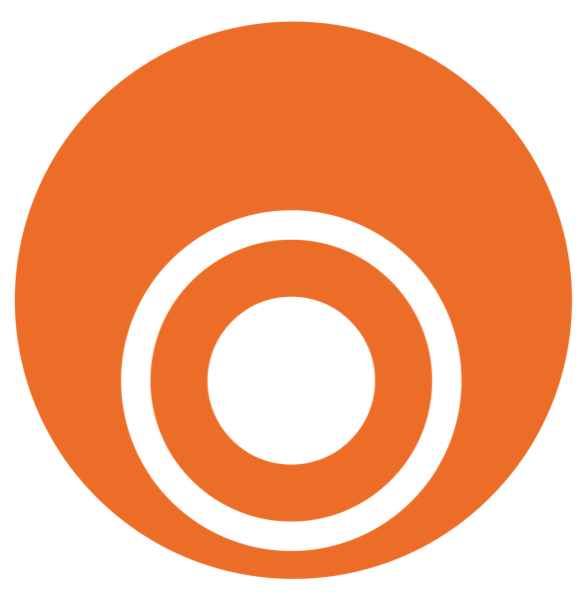
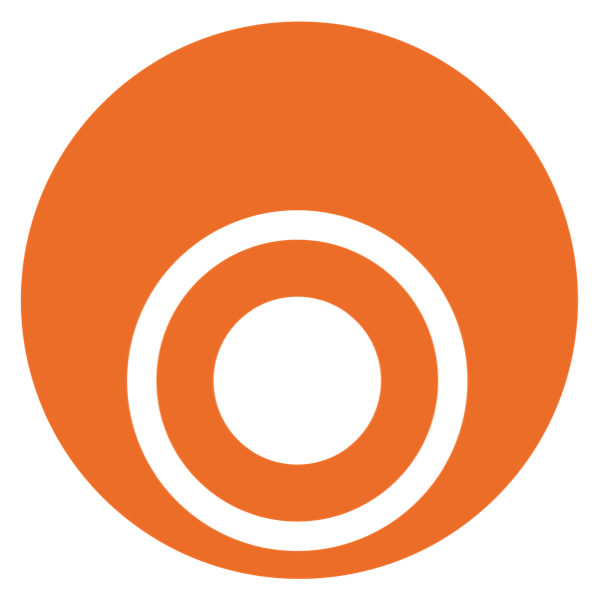
v6: símbolos de Médula y Lumina en lienzo cuadrado y sin deformarse

diff --git a/v6.html b/v6.html
@@ -12,7 +12,7 @@
 <link rel="preload" href="recursos/fuentes/geist.woff2" as="font" type="font/woff2" crossorigin>
 <link rel="stylesheet" href="estilos.css">
 <link rel="stylesheet" href="v4.css">
-<link rel="stylesheet" href="v6.css?v=1793368642">
+<link rel="stylesheet" href="v6.css?v=1793368802">
 </head>
 <body class="v6">
 
@@ -38,7 +38,7 @@
     <symbol id="i-cuerpo" viewBox="0 0 24 24" fill="none" stroke="currentColor" stroke-width="1.6" stroke-linejoin="round"><circle cx="12" cy="4.8" r="2"/><path d="M8 21l2-6.5-3-2.5 2.5-4h5l2.5 4-3 2.5 2 6.5"/></symbol>
     <symbol id="iso" viewBox="0 0 80 80"><defs><linearGradient id="g-iso" x1="0" x2="1"><stop offset="0" stop-color="#91CEC4"/><stop offset="1" stop-color="#387E80"/></linearGradient><mask id="m-iso"><rect width="80" height="80" fill="#fff"/><circle cx="44" cy="46" r="7" fill="#000"/><circle cx="26.6" cy="28.6" r="10" fill="#000"/></mask></defs><circle cx="44" cy="46" r="27" fill="url(#g-iso)" mask="url(#m-iso)"/><circle cx="19.5" cy="21.5" r="8" fill="url(#g-iso)"/></symbol>
     <!-- Lumina (provisorio): un lente con el punto de luz que se escapa, primo del punto de Optimizo -->
-    <symbol id="lumina" viewBox="0 0 48 48"><image href="recursos/marca/lumina-simbolo.png" width="48" height="48" preserveAspectRatio="xMidYMid meet"/></symbol>
+    <symbol id="lumina" viewBox="0 0 48 48"><image href="recursos/marca/lumina-simbolo.png?v=1793368802" width="48" height="48" preserveAspectRatio="xMidYMid meet"/></symbol>
   </defs>
 </svg>
 
@@ -180,12 +180,12 @@
         </div>
         <div class="banda banda--arriba">
           <span class="banda__c"><em>02.</em></span>
-          <span class="banda__c"><img src="recursos/marca/medula-simbolo.png" alt=""><img class="palabra palabra--medula" src="recursos/marca/medula-palabra.png" alt="Médula"></span>
+          <span class="banda__c"><img src="recursos/marca/medula-simbolo.png?v=1793368802" alt=""><img class="palabra palabra--medula" src="recursos/marca/medula-palabra.png" alt="Médula"></span>
           <span class="banda__c"><em>Conecta · Entiende · Actúa</em></span>
           <span class="banda__c banda__ir"><span>Entrar a Médula <svg><use href="#i-flecha"/></svg></span></span>
         </div>
         <div class="banda banda--abajo">
-          <span class="banda__c banda__c--isla"><span class="isla" aria-live="polite"><span class="isla__sim"><img src="recursos/marca/medula-simbolo-blanco.png" alt=""><i></i></span><span class="isla__txt">Médula</span><span class="isla__app"></span><i class="isla__barra"></i></span></span>
+          <span class="banda__c banda__c--isla"><span class="isla" aria-live="polite"><span class="isla__sim"><img src="recursos/marca/medula-simbolo-blanco.png?v=1793368802" alt=""><i></i></span><span class="isla__txt">Médula</span><span class="isla__app"></span><i class="isla__barra"></i></span></span>
           <span class="banda__c banda__c--ancho"><h3>El sistema nervioso de tu empresa.</h3><p>Conecta tus sistemas para que personas y agentes trabajen con el mismo contexto.</p></span>
         </div>
       </button>
@@ -269,13 +269,13 @@
       <div class="med__escenario">
         <canvas data-aura="escenario" aria-hidden="true"></canvas>
         <div class="med__in">
-          <div class="med__simbolo" data-r><img src="recursos/marca/medula-simbolo-blanco.png" alt=""></div>
+          <div class="med__simbolo" data-r><img src="recursos/marca/medula-simbolo-blanco.png?v=1793368802" alt=""></div>
           <div class="med__texto">
-            <span class="marca-m" data-r><img src="recursos/marca/medula-simbolo.png" alt=""><img class="palabra palabra--medula" src="recursos/marca/medula-palabra.png" alt="Médula"><span>de Optimizo</span></span>
+            <span class="marca-m" data-r><img src="recursos/marca/medula-simbolo.png?v=1793368802" alt=""><img class="palabra palabra--medula" src="recursos/marca/medula-palabra.png" alt="Médula"><span>de Optimizo</span></span>
             <h2 class="t-heroe arma" id="h-medula">El sistema nervioso de tu empresa.</h2>
             <p class="bajada" data-r>Médula conecta lo que hoy trabaja separado: tus aplicaciones, sistemas e información, en un solo ecosistema donde personas y agentes de IA trabajan con el mismo contexto.</p>
             <div class="med__acc" data-r>
-              <span class="isla" aria-live="polite"><span class="isla__sim"><img src="recursos/marca/medula-simbolo-blanco.png" alt=""><i></i></span><span class="isla__txt">Médula</span><span class="isla__app"></span><i class="isla__barra"></i></span>
+              <span class="isla" aria-live="polite"><span class="isla__sim"><img src="recursos/marca/medula-simbolo-blanco.png?v=1793368802" alt=""><i></i></span><span class="isla__txt">Médula</span><span class="isla__app"></span><i class="isla__barra"></i></span>
             </div>
           </div>
         </div>
@@ -300,9 +300,9 @@
             <p data-r>Médula busca en cada sistema, cita sus fuentes y, cuando lo apruebas, ejecuta.</p>
           </div>
           <div class="chat" id="chat" aria-live="polite">
-            <div class="chat__cab"><img src="recursos/marca/medula-simbolo.png" alt="">Médula<span>Quillay · contexto compartido</span></div>
+            <div class="chat__cab"><img src="recursos/marca/medula-simbolo.png?v=1793368802" alt="">Médula<span>Quillay · contexto compartido</span></div>
             <div class="msj chat__yo">¿Qué cotizaciones de Quillay siguen abiertas?</div>
-            <div class="msj chat__lite"><span class="lite__sim"><img src="recursos/marca/medula-simbolo-blanco.png" alt=""></span><span class="lite__txt">Revisando Bsale, Gmail y Zoho…</span></div>
+            <div class="msj chat__lite"><span class="lite__sim"><img src="recursos/marca/medula-simbolo-blanco.png?v=1793368802" alt=""></span><span class="lite__txt">Revisando Bsale, Gmail y Zoho…</span></div>
             <div class="msj chat__resp">Tres, por <b>$18,4 M</b>. La más antigua lleva <b>12 días</b> sin respuesta. ¿Le escribo a Camila para hacer seguimiento?
               <div class="cita"><span><img src="recursos/logos/bsale.png" alt="">Bsale</span><span><img src="recursos/logos/gmail.svg" alt="">Gmail</span><span><img src="recursos/logos/zoho.svg" alt="">Zoho CRM</span></div>
               <div class="chat__botones"><span class="si">Sí, escríbele</span><span>Ahora no</span></div></div>
@@ -333,7 +333,7 @@
           <button class="ar9__cab" aria-expanded="false">
             <span class="ar9__media"><video muted loop playsinline preload="none" poster="recursos/video/areas/operaciones.jpg" aria-hidden="true"><source src="recursos/video/areas/operaciones.mp4" type="video/mp4"></video><span class="ar9__velo"></span><span class="ar9__mas" aria-hidden="true"></span><span class="ar9__fila"><span class="ar9__ico"><svg viewBox="0 0 24 24" fill="none" stroke="currentColor" stroke-width="1.6" stroke-linecap="round" stroke-linejoin="round"><path d="M4 7h9M17 7h3M4 17h3M11 17h9"/><circle cx="15" cy="7" r="2.2"/><circle cx="9" cy="17" r="2.2"/></svg></span><span class="ar9__nom">Operaciones</span></span></span>
           </button>
-          <div class="ar9__det"><div><p>Procesos que se coordinan solos y alertas cuando algo se desvía.</p><div class="ar9__tags"><a href="#camino" data-ir="medula" class="tag-marca"><img src="recursos/marca/medula-simbolo.png" alt="">Médula</a><span>Automatización</span></div></div></div>
+          <div class="ar9__det"><div><p>Procesos que se coordinan solos y alertas cuando algo se desvía.</p><div class="ar9__tags"><a href="#camino" data-ir="medula" class="tag-marca"><img src="recursos/marca/medula-simbolo.png?v=1793368802" alt="">Médula</a><span>Automatización</span></div></div></div>
         </article>
         <article class="ar9" data-area="logistica" style="--n:1">
           <button class="ar9__cab" aria-expanded="false">
@@ -345,13 +345,13 @@
           <button class="ar9__cab" aria-expanded="false">
             <span class="ar9__media"><video muted loop playsinline preload="none" poster="recursos/video/areas/ventas.jpg" aria-hidden="true"><source src="recursos/video/areas/ventas.mp4" type="video/mp4"></video><span class="ar9__velo"></span><span class="ar9__mas" aria-hidden="true"></span><span class="ar9__fila"><span class="ar9__ico"><svg viewBox="0 0 24 24" fill="none" stroke="currentColor" stroke-width="1.6" stroke-linecap="round" stroke-linejoin="round"><path d="M4 17l5.5-5.5 4 4L20 9"/><path d="M15 9h5v5"/></svg></span><span class="ar9__nom">Ventas</span></span></span>
           </button>
-          <div class="ar9__det"><div><p>Cotizaciones, seguimiento de clientes y CRM al día sin trabajo manual.</p><div class="ar9__tags"><a href="#camino" data-ir="medula" class="tag-marca"><img src="recursos/marca/medula-simbolo.png" alt="">Médula</a><span>Agentes</span></div></div></div>
+          <div class="ar9__det"><div><p>Cotizaciones, seguimiento de clientes y CRM al día sin trabajo manual.</p><div class="ar9__tags"><a href="#camino" data-ir="medula" class="tag-marca"><img src="recursos/marca/medula-simbolo.png?v=1793368802" alt="">Médula</a><span>Agentes</span></div></div></div>
         </article>
         <article class="ar9" data-area="finanzas" style="--n:3">
           <button class="ar9__cab" aria-expanded="false">
             <span class="ar9__media"><video muted loop playsinline preload="none" poster="recursos/video/areas/finanzas.jpg" aria-hidden="true"><source src="recursos/video/areas/finanzas.mp4" type="video/mp4"></video><span class="ar9__velo"></span><span class="ar9__mas" aria-hidden="true"></span><span class="ar9__fila"><span class="ar9__ico"><svg viewBox="0 0 24 24" fill="none" stroke="currentColor" stroke-width="1.6" stroke-linecap="round" stroke-linejoin="round"><rect x="5" y="3" width="14" height="18" rx="2.5"/><path d="M9 8h6M9 12h6M9 16h3"/></svg></span><span class="ar9__nom">Administración y finanzas</span></span></span>
           </button>
-          <div class="ar9__det"><div><p>Facturas, conciliaciones y reportes que se arman solos.</p><div class="ar9__tags"><span>Automatización</span><a href="#camino" data-ir="medula" class="tag-marca"><img src="recursos/marca/medula-simbolo.png" alt="">Médula</a></div></div></div>
+          <div class="ar9__det"><div><p>Facturas, conciliaciones y reportes que se arman solos.</p><div class="ar9__tags"><span>Automatización</span><a href="#camino" data-ir="medula" class="tag-marca"><img src="recursos/marca/medula-simbolo.png?v=1793368802" alt="">Médula</a></div></div></div>
         </article>
         <article class="ar9" data-area="riesgos" style="--n:4">
           <button class="ar9__cab" aria-expanded="false">
@@ -363,7 +363,7 @@
           <button class="ar9__cab" aria-expanded="false">
             <span class="ar9__media"><video muted loop playsinline preload="none" poster="recursos/video/areas/gerencia.jpg" aria-hidden="true"><source src="recursos/video/areas/gerencia.mp4" type="video/mp4"></video><span class="ar9__velo"></span><span class="ar9__mas" aria-hidden="true"></span><span class="ar9__fila"><span class="ar9__ico"><svg viewBox="0 0 24 24" fill="none" stroke="currentColor" stroke-width="1.6" stroke-linecap="round" stroke-linejoin="round"><rect x="3.5" y="4" width="17" height="12.5" rx="2"/><path d="M8.5 20.5h7M12 16.5v4M7 12.5l3-3 2 2 4-4"/></svg></span><span class="ar9__nom">Gerencia</span></span></span>
           </button>
-          <div class="ar9__det"><div><p>La información de toda la empresa, lista para decidir.</p><div class="ar9__tags"><a href="#camino" data-ir="medula" class="tag-marca"><img src="recursos/marca/medula-simbolo.png" alt="">Médula</a><a href="#camino" data-ir="lumina" class="tag-marca"><svg><use href="#lumina"/></svg>Lumina</a></div></div></div>
+          <div class="ar9__det"><div><p>La información de toda la empresa, lista para decidir.</p><div class="ar9__tags"><a href="#camino" data-ir="medula" class="tag-marca"><img src="recursos/marca/medula-simbolo.png?v=1793368802" alt="">Médula</a><a href="#camino" data-ir="lumina" class="tag-marca"><svg><use href="#lumina"/></svg>Lumina</a></div></div></div>
         </article>
       </div>
     </div>
@@ -403,7 +403,7 @@
           <h3>Inteligencia</h3>
           <p class="sp7c__frase">Convierte información en decisiones ágiles.</p>
           <p class="sp7c__det">Conectamos información, identificamos patrones y desarrollamos herramientas que permiten comprender mejor lo que ocurre, anticipar situaciones y tomar decisiones con mayor respaldo.</p>
-          <a class="sp7c__con" href="#camino" data-ir="medula"><img src="recursos/marca/medula-simbolo.png" alt="">Con Médula</a>
+          <a class="sp7c__con" href="#camino" data-ir="medula"><img src="recursos/marca/medula-simbolo.png?v=1793368802" alt="">Con Médula</a>
         </div>
         <div class="sp7c__esc" data-mg="inteligencia"><canvas aria-hidden="true"></canvas></div>
       </article>

diff --git a/flujo.js b/flujo.js
@@ -15,7 +15,7 @@ export function montarFlujo(caja, { alVer, QUIETO }) {
     <div class="fx__n fx__persona" style="left:${P.persona[0]}%;top:${P.persona[1]}%"><span class="fx__av"><svg viewBox="0 0 24 24" fill="none" stroke="currentColor" stroke-width="1.8" stroke-linecap="round"><circle cx="12" cy="8.5" r="3.8"/><path d="M4.5 20c.9-4 3.9-6 7.5-6s6.6 2 7.5 6"/></svg></span>
       <span class="fx__bur fx__bur--q">¿Qué cotizaciones de Quillay siguen abiertas?</span><span class="fx__bur fx__bur--r">Tres, por $18,4 M. La más antigua lleva 12 días sin respuesta.</span></div>
     <div class="fx__n fx__agente" style="left:${P.agente[0]}%;top:${P.agente[1]}%"><span class="fx__pild"><img src="recursos/logos/claude.svg" alt=""><img src="recursos/logos/openai.svg" alt=""><b>Tu agente de IA</b></span></div>
-    <div class="fx__n fx__medula" style="left:${P.medula[0]}%;top:${P.medula[1]}%"><span class="fx__sim"><img src="recursos/marca/medula-simbolo-blanco.png" alt=""></span><b>Médula</b></div>
+    <div class="fx__n fx__medula" style="left:${P.medula[0]}%;top:${P.medula[1]}%"><span class="fx__sim"><img src="recursos/marca/medula-simbolo-blanco.png?v=1793368802" alt=""></span><b>Médula</b></div>
     ${APPS.map(([img, n], i) => `<div class="fx__n fx__app" style="left:${P.apps[i][0]}%;top:${P.apps[i][1]}%"><span class="fx__ic"><img src="recursos/logos/${img}" alt=""><i class="fx__ok"></i></span><small>${n}</small></div>`).join("")}
     <ol class="fx__pasos">${PASOS.map((t, i) => `<li><span>${i + 1}</span>${t}</li>`).join("")}</ol>`;
   const svg = caja.querySelector(".fx__haces"), NS = "http://www.w3.org/2000/svg";

diff --git a/poderes.js b/poderes.js
@@ -42,7 +42,7 @@ const ESCENAS = {
     },
   },
   inteligencia: {
-    html: `<div class="pn pn--chat"><div class="pn__cab"><b><img src="recursos/marca/medula-simbolo.png" alt="">Médula</b><span>Contexto compartido</span></div>
+    html: `<div class="pn pn--chat"><div class="pn__cab"><b><img src="recursos/marca/medula-simbolo.png?v=1793368802" alt="">Médula</b><span>Contexto compartido</span></div>
       <p class="burbuja burbuja--yo">¿Cómo van las ventas de la zona norte?</p>
       <div class="burbuja burbuja--med"><p class="esc"></p>
         <svg viewBox="0 0 300 70" class="graf"><defs><linearGradient id="gi" x1="0" x2="0" y1="0" y2="1"><stop offset="0" stop-color="#34529D" stop-opacity=".28"/><stop offset="1" stop-color="#34529D" stop-opacity="0"/></linearGradient></defs>

diff --git a/v6.css b/v6.css
@@ -1306,3 +1306,4 @@ body:not(.cierre-aurora) .fin7 .btn7 { background: #fff; color: var(--tinta7); }
 .banda__c > img.palabra, .marca-m img.palabra, .lum__marca img.palabra { width: auto !important; height: 17px !important; max-width: none; }
 .lum__marca img.palabra, .marca-m img.palabra { height: 26px !important; }
 .marca-m, .lum__marca { align-items: center; }
+img[src*="marca/"] { object-fit: contain; }
